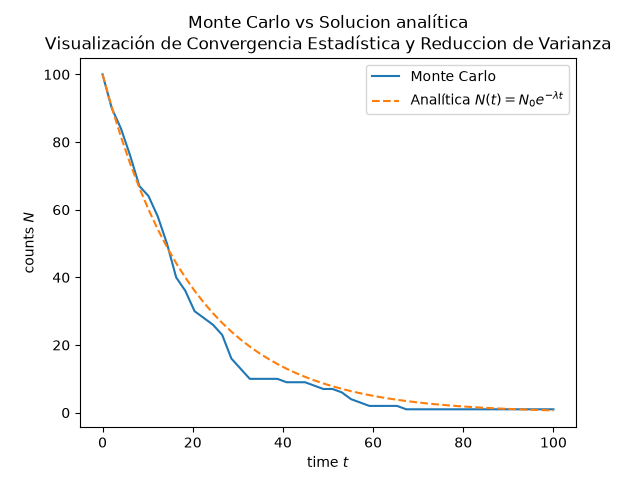
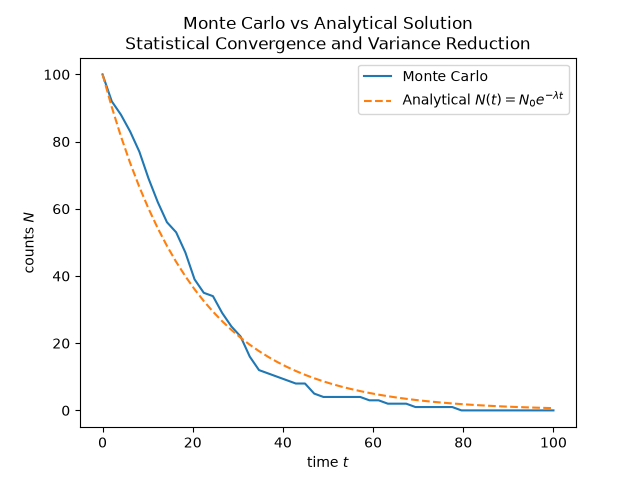
Actualización de README.md. Nuevos alcances del proyecto

diff --git a/MC_continuo/mc_continuo.py b/MC_continuo/mc_continuo.py
@@ -24,9 +24,8 @@ def decay(N0):
 
     #plot de las soluciones Monte Carlo y analitica, comparativa visual
     plt.plot(t, N_t, label='Monte Carlo')
-    plt.plot(t, analytic, '--', label='Analítica $N(t)=N_0 e^{-\lambda t}$')
-    plt.title('Monte Carlo vs Solucion analítica',
-    '\nVisualización de Convergencia Estadística y Reduccion de Varianza')
+    plt.plot(t, analytic, '--', label='Analytical $N(t)=N_0 e^{-\lambda t}$')
+    plt.title('Monte Carlo vs Analytical Solution\nStatistical Convergence and Variance Reduction')
     plt.xlabel('time $t$')
     plt.ylabel('counts $N$')
     plt.legend()

diff --git a/README.md b/README.md
@@ -1,15 +1,128 @@
 # Monte Carlo Simulation
 
-Repositorio con caracter educativo sobre la implementacion del método Monte Carlo desde cero
+Repositorio educativo para comprender el método de Monte Carlo desde cero, avanzando desde ejemplos mínimos de decaimiento probabilístico hasta una simulación de transporte de partículas en geometría unidimensional.
 
-1. Inicio: Método Monte Carlo mínimo
+## Estado actual del proyecto
 
-    ![Solucion minima](MC_minimo/decay_minimo.png)
+El proyecto ya no es solo un ejercicio introductorio: cuenta con una estructura modular, ejemplos ejecutables y una base de simulación que representa una geometría de placa (`slab`) y el transporte de partículas en ella. Actualmente incluye:
 
-    solucion mediante generacion de probabilidades aleatorias en un arreglo 1D determinando que particulas han decaído
+- generador de números aleatorios basado en XorShift64*
+- distribución exponencial para longitudes de libre recorrido
+- material con secciones eficaces de absorción y dispersión
+- fuente fija de partículas
+- tally de flujo por longitud de trayectoria
+- simulación de transporte con absorción y dispersión
+- pruebas unitarias para geometría, partículas, RNG y transporte
+- ejemplos visuales para decaimiento y flujo en una placa
 
-2. Comparación de solucion analítica continua y visualizacion de convergencia estadistica y reduccion de varianza
+## Avances destacados
 
-    ![comparción de solucion](/MC_continuo/graphs/animation/decay_continuo.gif)
+### 1. Evolución desde el ejemplo mínimo
 
-    definicion de función de decaimiento estableciendo como criterio de decaimiento la vida media generada aleatoriamente
+La primera etapa del proyecto consistió en un modelo sencillo de decaimiento probabilístico, donde se generaban tiempos de vida aleatorios para determinar qué partículas desaparecían a lo largo del tiempo.
+
+![Solución mínima](MC_minimo/decay_minimo.png)
+
+Ese enfoque sirvió como introducción a la idea de Monte Carlo y a la interpretación de la varianza estadística en una simulación.
+
+### 2. Comparación con solución analítica
+
+La siguiente etapa incorporó un modelo continuo de decaimiento con comparación directa entre simulación y solución analítica, además de visualización de convergencia estadística y reducción de varianza.
+
+![Comparación de solución](MC_continuo/graphs/animation/decay_continuo.gif)
+
+Esto permitió estudiar cómo la simulación se aproxima a la solución exacta conforme aumenta el número de realizaciones.
+
+### 3. Implementación de transporte de partículas
+
+El núcleo actual del proyecto está en la carpeta `mc/`, donde se modela una simulación de transporte 1D:
+
+- `mc/geometry/slab.py`: geometría de placa con cálculo de distancia a la frontera
+- `mc/particle/particle.py`: estado de la partícula
+- `mc/physics/material.py`: definición de secciones eficaces
+- `mc/physics/interactions.py`: selección de colisión, libre recorrido y dispersión
+- `mc/rng/generator.py`: algoritmo aleatorio
+- `mc/rng/distributions.py`: distribución exponencial
+- `mc/source/source.py`: fuente fija de neutrones o partículas
+- `mc/tally/flux.py`: estimación de flujo mediante track-length
+- `mc/simulation/simulation.py`: orquestación general de la simulación
+- `mc/transport/transport.py`: evolución de la partícula dentro del material y la geometría
+
+### 4. Validación con pruebas
+
+Se agregó una suite de pruebas para verificar el comportamiento básico del proyecto:
+
+- geometría y distancia a los límites
+- estado inicial de la partícula
+- generación aleatoria y distribución exponencial
+- ejecución del transporte y acotación del tally
+
+Esto mejora la reproducibilidad y sirve como base para extender el proyecto con nuevos fenómenos físicos.
+
+## Estructura del repositorio
+
+```text
+MonteCarlo/
+├── MC_continuo/                 # ejemplos de decaimiento continuo y visualizaciones
+│   ├── main.py
+│   ├── mc_continuo.py
+│   └── graphs/
+├── MC_minimo/                  # versión inicial del método Monte Carlo mínimo
+│   ├── decay_minimo.png
+│   └── mc_minimo.py
+├── examples/
+│   └── slab_transport.py       # ejemplo ejecutable de transporte 1D
+├── mc/                         # biblioteca principal del proyecto
+│   ├── geometry/
+│   ├── particle/
+│   ├── physics/
+│   ├── rng/
+│   ├── simulation/
+│   ├── source/
+│   ├── tally/
+│   └── transport/
+├── tests/                      # pruebas unitarias
+├── README.md
+└── ...
+```
+
+## Cómo ejecutar ejemplos
+
+### Transporte en una placa
+
+```bash
+python examples/slab_transport.py
+```
+
+Este ejemplo crea una geometría `Slab(0.0, 10.0)`, define un material con secciones de absorción y dispersión, genera una partícula desde una fuente fija, ejecuta la simulación y dibuja el perfil de flujo estimado.
+
+### Decaimiento continuo
+
+```bash
+cd MC_continuo
+python main.py
+```
+
+Esto genera múltiples imágenes de comparación entre Monte Carlo y la solución analítica del decaimiento exponencial y compone la animación final.
+
+## Objetivo del proyecto
+
+El proyecto busca ser una referencia pedagógica para entender:
+
+- la relación entre aleatoriedad y modelos físicos
+- la construcción de simulaciones Monte Carlo paso a paso
+- la importancia de la estadística y la convergencia
+- la transición de ejemplos mínimos a modelos más realistas de transporte de radiación o partículas
+
+Con el estado actual, el repositorio queda como una base sólida para seguir ampliando capacidades como:
+
+- geometrías más complejas
+- múltiples materiales y regiones
+- fuentes distribuidas
+- estimadores de flujo, dosis y reacción
+- técnicas de reducción de varianza
+- integración con visualización más avanzada
+
+## Resumen
+
+El proyecto ha pasado de una demostración inicial de decaimiento probabilístico a una biblioteca modular de transporte de partículas en geometría 1D; la base ya está estable, documentada y validada con pruebas, lo que la convierte en un punto de partida muy útil para continuar aprendiendo y desarrollando modelos Monte Carlo más completos.
